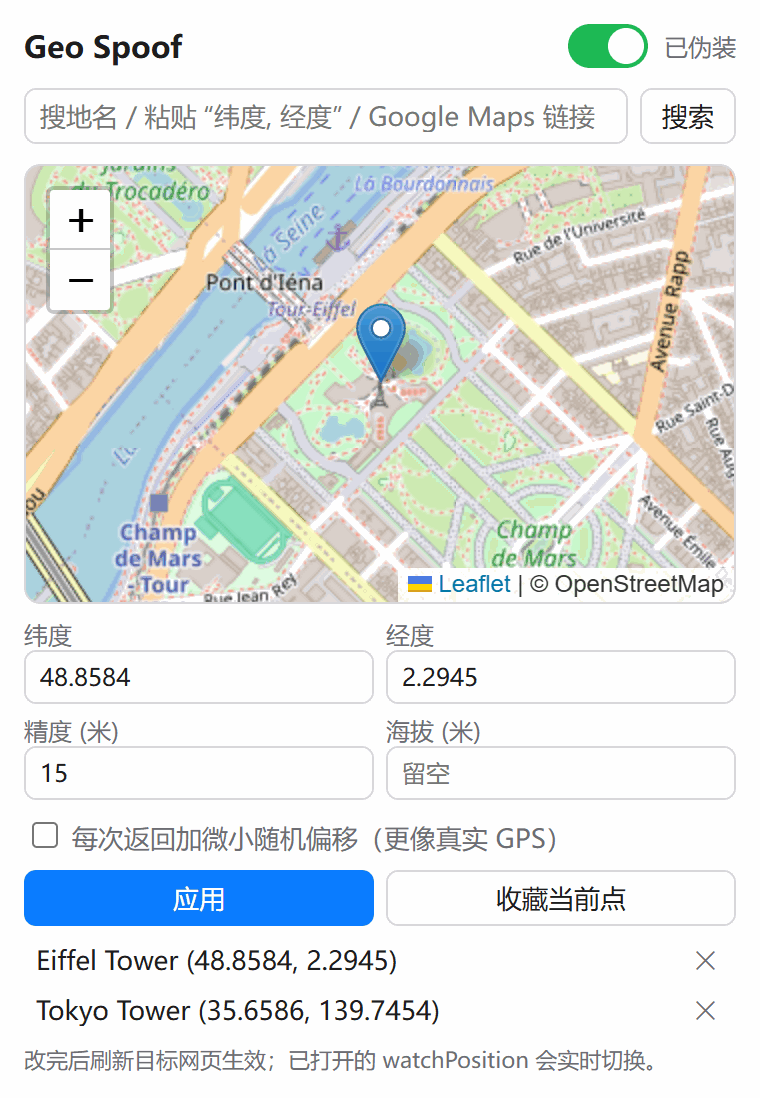
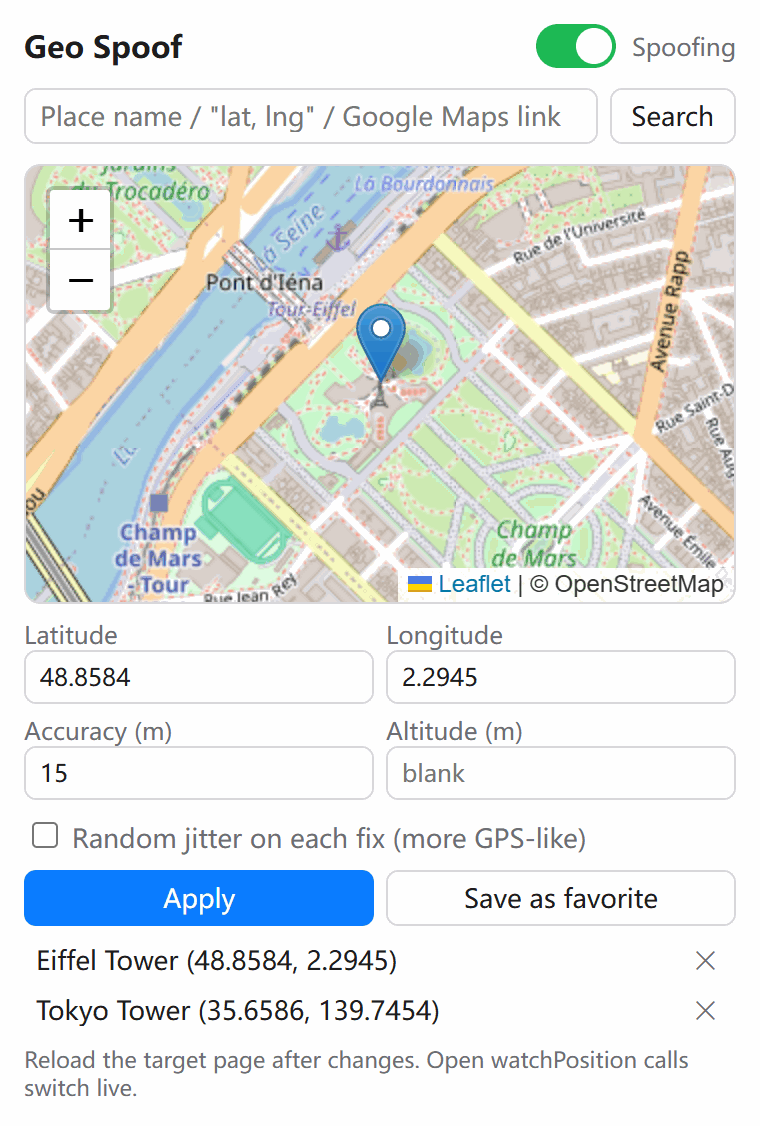
Bilingual UI (en default, zh_CN) via chrome.i18n; English probe page; zh screenshot

diff --git a/test/probe/index.html b/test/probe/index.html
@@ -1,11 +1,11 @@
 <!doctype html>
-<html lang="zh">
+<html lang="en">
 <head>
 <meta charset="utf-8">
 <title>Geolocation Probe</title>
 <style>
   :root { color-scheme: light dark; }
-  body { font: 14px/1.6 system-ui, "Microsoft YaHei", sans-serif; max-width: 820px; margin: 32px auto; padding: 0 16px; }
+  body { font: 14px/1.6 system-ui, sans-serif; max-width: 820px; margin: 32px auto; padding: 0 16px; }
   h1 { font-size: 19px; margin: 0 0 4px; }
   p.sub { color: #777; margin: 0 0 20px; }
   section { border: 1px solid #8884; border-radius: 10px; padding: 12px 16px; margin: 0 0 14px; }
@@ -22,22 +22,22 @@
 </head>
 <body>
 <h1>Geolocation Probe</h1>
-<p class="sub">只调用 navigator.geolocation，没有任何第三方定位逻辑。</p>
+<p class="sub">Calls navigator.geolocation only. No third-party location logic.</p>
 
 <section>
   <h2>getCurrentPosition</h2>
-  <table id="pos"><tr><td>状态</td><td>请求中…</td></tr></table>
-  <p><button id="again">再取一次</button></p>
+  <table id="pos"><tr><td>Status</td><td>Requesting…</td></tr></table>
+  <p><button id="again">Get again</button></p>
 </section>
 
 <section>
-  <h2>watchPosition（实时，改坐标后这里应立刻变）</h2>
-  <div id="log">等待第一次回调…</div>
+  <h2>watchPosition (live; should change as soon as you move the point)</h2>
+  <div id="log">Waiting for first callback…</div>
 </section>
 
 <section>
-  <h2>一致性检查</h2>
-  <table id="checks"><tr><td>检测中…</td><td></td></tr></table>
+  <h2>Consistency checks</h2>
+  <table id="checks"><tr><td>Checking…</td><td></td></tr></table>
 </section>
 
 <script>
@@ -49,18 +49,18 @@ function showPos(p) {
   last = p;
   const c = p.coords;
   $('pos').innerHTML =
-    row('纬度', c.latitude) + row('经度', c.longitude) +
-    row('精度', c.accuracy + ' 米') +
-    row('海拔', c.altitude === null ? 'null' : c.altitude) +
-    row('时间戳', new Date(p.timestamp).toLocaleString()) +
-    row('对象类型', (p instanceof GeolocationPosition ? 'GeolocationPosition' : '不是原生类型 ← 可被检测') ,
+    row('Latitude', c.latitude) + row('Longitude', c.longitude) +
+    row('Accuracy', c.accuracy + ' m') +
+    row('Altitude', c.altitude === null ? 'null' : c.altitude) +
+    row('Timestamp', new Date(p.timestamp).toLocaleString()) +
+    row('Object type', (p instanceof GeolocationPosition ? 'GeolocationPosition' : 'Not native type ← detectable') ,
         p instanceof GeolocationPosition ? 'ok' : 'bad') +
-    row('地图', `<a href="https://www.openstreetmap.org/?mlat=${c.latitude}&mlon=${c.longitude}#map=16/${c.latitude}/${c.longitude}" target="_blank">在 OSM 上查看</a>`, '');
+    row('Map', `<a href="https://www.openstreetmap.org/?mlat=${c.latitude}&mlon=${c.longitude}#map=16/${c.latitude}/${c.longitude}" target="_blank">View on OSM</a>`, '');
   checks();
 }
 
 function showErr(e) {
-  $('pos').innerHTML = row('错误', `${e.code} — ${e.message}`, 'bad');
+  $('pos').innerHTML = row('Error', `${e.code} — ${e.message}`, 'bad');
 }
 
 const get = () => navigator.geolocation.getCurrentPosition(showPos, showErr, { enableHighAccuracy: true, timeout: 10000, maximumAge: 0 });
@@ -70,28 +70,28 @@ $('again').onclick = get;
 navigator.geolocation.watchPosition((p) => {
   const line = document.createElement('div');
   line.textContent = `${new Date().toLocaleTimeString()}  ${p.coords.latitude}, ${p.coords.longitude}  ±${p.coords.accuracy}m`;
-  if ($('log').textContent.startsWith('等待')) $('log').textContent = '';
+  if ($('log').textContent.startsWith('Waiting')) $('log').textContent = '';
   $('log').prepend(line);
-}, (e) => { $('log').textContent = `watch 错误: ${e.code} ${e.message}`; });
+}, (e) => { $('log').textContent = `watch error: ${e.code} ${e.message}`; });
 
 // Cross-check what else the page can see about where you are
 async function checks() {
   const tz = Intl.DateTimeFormat().resolvedOptions().timeZone;
-  let out = row('函数签名', navigator.geolocation.getCurrentPosition.toString(),
+  let out = row('Function source', navigator.geolocation.getCurrentPosition.toString(),
     navigator.geolocation.getCurrentPosition.toString().includes('[native code]') ? 'mono' : 'bad');
-  out += row('系统时区', tz);
+  out += row('Time zone', tz);
   try {
     const st = await navigator.permissions.query({ name: 'geolocation' });
-    out += row('定位权限', st.state);
+    out += row('Permission', st.state);
   } catch {}
   $('checks').innerHTML = out;
   try {
     const ip = await (await fetch('https://ipinfo.io/json')).json();
     const [ilat, ilng] = ip.loc.split(',').map(Number);
-    let extra = row('IP 地址', ip.ip) + row('IP 定位', `${ip.city}, ${ip.region} (${ip.loc})`);
+    let extra = row('IP address', ip.ip) + row('IP location', `${ip.city}, ${ip.region} (${ip.loc})`);
     if (last) {
       const d = Math.hypot(last.coords.latitude - ilat, (last.coords.longitude - ilng) * Math.cos(ilat * Math.PI / 180)) * 111.32;
-      extra += row('与 GPS 坐标相距', `${d.toFixed(0)} km`, d > 100 ? 'bad' : 'mono');
+      extra += row('Distance from GPS fix', `${d.toFixed(0)} km`, d > 100 ? 'bad' : 'mono');
     }
     $('checks').innerHTML += extra;
   } catch {}

diff --git a/extension/popup.js b/extension/popup.js
@@ -1,4 +1,10 @@
 const $ = (id) => document.getElementById(id);
+const t = (k) => chrome.i18n.getMessage(k) || k;
+
+// Localize static text
+document.documentElement.lang = chrome.i18n.getUILanguage();
+document.querySelectorAll('[data-i18n]').forEach((el) => (el.textContent = t(el.dataset.i18n)));
+document.querySelectorAll('[data-i18n-placeholder]').forEach((el) => (el.placeholder = t(el.dataset.i18nPlaceholder)));
 const DEFAULT = { enabled: false, lat: 43.0747, lng: -89.3842, accuracy: 20, altitude: '', jitter: true };
 
 let cfg, favs, marker, map = null;
@@ -26,7 +32,7 @@ try {
   }).addTo(map);
   map.on('click', (e) => { setPoint(e.latlng.lat, e.latlng.lng); save(); });
 } catch (e) {
-  showErr('地图加载失败，坐标仍可手动输入: ' + e.message);
+  showErr(t('mapFailed') + ' ' + e.message);
   $('map').style.display = 'none';
 }
 
@@ -54,11 +60,11 @@ function readForm() {
 async function save() {
   cfg = readForm();
   if (!isFinite(cfg.lat) || !isFinite(cfg.lng) || Math.abs(cfg.lat) > 90 || Math.abs(cfg.lng) > 180) {
-    $('state').textContent = '坐标无效'; return;
+    $('state').textContent = t('stateInvalid'); return;
   }
   await chrome.storage.local.set({ cfg });
-  const base = cfg.enabled ? '已伪装' : '关闭';
-  $('state').textContent = '已保存';
+  const base = t(cfg.enabled ? 'stateOn' : 'stateOff');
+  $('state').textContent = t('stateSaved');
   clearTimeout(save.t);
   save.t = setTimeout(() => ($('state').textContent = base), 900);
 }
@@ -77,10 +83,10 @@ async function search(e) {
   if (!q) return;
   const c = parseCoords(q);
   if (c) return setPoint(c[0], c[1], 16);
-  const url = 'https://nominatim.openstreetmap.org/search?format=json&limit=6&accept-language=zh-CN,en&q=' + encodeURIComponent(q);
+  const url = 'https://nominatim.openstreetmap.org/search?format=json&limit=6&accept-language=' + chrome.i18n.getUILanguage() + ',en&q=' + encodeURIComponent(q);
   try {
     const list = await (await fetch(url)).json();
-    if (!list.length) $('results').innerHTML = '<li><span>没找到</span></li>';
+    if (!list.length) $('results').innerHTML = `<li><span>${t('noResults')}</span></li>`;
     for (const r of list) {
       const li = document.createElement('li');
       li.innerHTML = '<span></span>';
@@ -88,14 +94,14 @@ async function search(e) {
       li.onclick = () => { setPoint(r.lat, r.lon, 16); $('results').innerHTML = ''; };
       $('results').append(li);
     }
-  } catch { $('results').innerHTML = '<li><span>搜索失败（网络）</span></li>'; }
+  } catch { $('results').innerHTML = `<li><span>${t('searchFailed')}</span></li>`; }
 }
 
 function renderFavs() {
   $('favs').innerHTML = '';
   favs.forEach((f, i) => {
     const li = document.createElement('li');
-    li.innerHTML = '<span></span><b title="删除">✕</b>';
+    li.innerHTML = `<span></span><b title="${t('remove')}">✕</b>`;
     li.firstChild.textContent = `${f.name}  (${f.lat}, ${f.lng})`;
     li.firstChild.onclick = () => setPoint(f.lat, f.lng, 16);
     li.lastChild.onclick = async () => { favs.splice(i, 1); await chrome.storage.local.set({ favs }); renderFavs(); };
@@ -106,21 +112,21 @@ function renderFavs() {
 async function addFav() {
   // Name from search box, fallback to label
   const q = $('q').value.trim();
-  const name = q && !parseCoords(q) ? q.split(',')[0].slice(0, 30) : `收藏 ${favs.length + 1}`;
+  const name = q && !parseCoords(q) ? q.split(',')[0].slice(0, 30) : `${t('favorite')} ${favs.length + 1}`;
   favs.unshift({ name, lat: +$('lat').value, lng: +$('lng').value });
   await chrome.storage.local.set({ favs });
   renderFavs();
 }
 
 (async () => {
-  const s = await chrome.storage.local.get(['cfg', 'favs']).catch((e) => { showErr('读取设置失败: ' + e.message); return {}; });
+  const s = await chrome.storage.local.get(['cfg', 'favs']).catch((e) => { showErr(t('loadFailed') + ' ' + e.message); return {}; });
   cfg = { ...DEFAULT, ...s.cfg };
   favs = s.favs || [];
   $('enabled').checked = cfg.enabled;
   $('accuracy').value = cfg.accuracy;
   $('altitude').value = cfg.altitude;
   $('jitter').checked = cfg.jitter;
-  $('state').textContent = cfg.enabled ? '已伪装' : '关闭';
+  $('state').textContent = t(cfg.enabled ? 'stateOn' : 'stateOff');
   setPoint(cfg.lat, cfg.lng, 15);
   renderFavs();
 })();

diff --git a/extension/popup.html b/extension/popup.html
@@ -1,5 +1,5 @@
 <!doctype html>
-<html lang="zh">
+<html lang="en">
 <head>
 <meta charset="utf-8">
 <link rel="stylesheet" href="lib/leaflet.css">
@@ -9,33 +9,33 @@
   <header>
     <strong>Geo Spoof</strong>
     <label class="switch"><input type="checkbox" id="enabled"><span></span></label>
-    <span id="state">关闭</span>
+    <span id="state" data-i18n="stateOff">Off</span>
   </header>
 
   <p id="err" hidden></p>
 
   <form id="searchForm">
-    <input id="q" placeholder="搜地名 / 粘贴 “纬度, 经度” / Google Maps 链接">
-    <button>搜索</button>
+    <input id="q" data-i18n-placeholder="searchPlaceholder">
+    <button data-i18n="search">Search</button>
   </form>
   <ul id="results"></ul>
 
   <div id="map"></div>
 
   <div class="grid">
-    <label>纬度<input id="lat" type="number" step="any"></label>
-    <label>经度<input id="lng" type="number" step="any"></label>
-    <label>精度 (米)<input id="accuracy" type="number" min="1" value="20"></label>
-    <label>海拔 (米)<input id="altitude" type="number" step="any" placeholder="留空"></label>
+    <label><span data-i18n="lat">Latitude</span><input id="lat" type="number" step="any"></label>
+    <label><span data-i18n="lng">Longitude</span><input id="lng" type="number" step="any"></label>
+    <label><span data-i18n="accuracy">Accuracy (m)</span><input id="accuracy" type="number" min="1" value="20"></label>
+    <label><span data-i18n="altitude">Altitude (m)</span><input id="altitude" type="number" step="any" data-i18n-placeholder="altitudePlaceholder"></label>
   </div>
-  <label class="check"><input type="checkbox" id="jitter"> 每次返回加微小随机偏移（更像真实 GPS）</label>
+  <label class="check"><input type="checkbox" id="jitter"> <span data-i18n="jitter">Random jitter on each fix</span></label>
 
   <div class="row">
-    <button id="save" class="primary">应用</button>
-    <button id="fav">收藏当前点</button>
+    <button id="save" class="primary" data-i18n="apply">Apply</button>
+    <button id="fav" data-i18n="saveFav">Save as favorite</button>
   </div>
   <ul id="favs"></ul>
-  <p class="hint">改完后刷新目标网页生效；已打开的 watchPosition 会实时切换。</p>
+  <p class="hint" data-i18n="hint"></p>
 
   <script src="lib/leaflet.js"></script>
   <script src="popup.js"></script>

diff --git a/extension/sw.js b/extension/sw.js
@@ -5,7 +5,7 @@ async function paint() {
   await chrome.action.setBadgeText({ text: on ? 'ON' : '' });
   await chrome.action.setBadgeBackgroundColor({ color: '#1db954' });
   await chrome.action.setTitle({
-    title: on ? `Geo Spoof: ${cfg.lat}, ${cfg.lng}` : 'Geo Spoof: 关闭',
+    title: on ? `Geo Spoof: ${cfg.lat}, ${cfg.lng}` : `Geo Spoof: ${chrome.i18n.getMessage('stateOff')}`,
   });
 }
 

diff --git a/docs/screenshots.py b/docs/screenshots.py
@@ -32,8 +32,8 @@ srv = http.server.ThreadingHTTPServer(("127.0.0.1", 0), functools.partial(http.s
 threading.Thread(target=srv.serve_forever, daemon=True).start()
 
 with sync_playwright() as p:
-    ctx = p.chromium.launch_persistent_context(str(tmp / "profile"), headless=True, channel="chromium",
-        device_scale_factor=2, args=[f"--disable-extensions-except={ext}", f"--load-extension={ext}"])
+    ctx = p.chromium.launch_persistent_context(str(tmp / "profile"), headless=True, channel="chromium", locale="en-US",
+        device_scale_factor=2, args=["--lang=en-US", f"--disable-extensions-except={ext}", f"--load-extension={ext}"])
     sw = ctx.service_workers[0] if ctx.service_workers else ctx.wait_for_event("serviceworker")
     ext_id = sw.url.split("/")[2]
     sw.evaluate(f"chrome.storage.local.set({{cfg:{{enabled:true,lat:{LAT},lng:{LNG},accuracy:{ACC},altitude:'',jitter:false}},"
@@ -53,4 +53,21 @@ with sync_playwright() as p:
     page.wait_for_function("window.done", timeout=20000)
     page.screenshot(path=str(OUT / "demo-page.png"))
     ctx.close()
+
+    # Chinese UI popup
+    ctx = p.chromium.launch_persistent_context(str(tmp / "profile-zh"), headless=True, channel="chromium", locale="zh-CN",
+        device_scale_factor=2, args=["--lang=zh-CN", f"--disable-extensions-except={ext}", f"--load-extension={ext}"])
+    sw = ctx.service_workers[0] if ctx.service_workers else ctx.wait_for_event("serviceworker")
+    sw.evaluate(f"chrome.storage.local.set({{cfg:{{enabled:true,lat:{LAT},lng:{LNG},accuracy:{ACC},altitude:'',jitter:false}}}})")
+    pop = ctx.new_page()
+    pop.set_viewport_size({"width": 380, "height": 200})
+    pop.goto(f"chrome-extension://{sw.url.split('/')[2]}/popup.html")
+    pop.wait_for_timeout(3000)
+    pop.screenshot(path=str(OUT / "popup-zh.png"), full_page=True)
+    ctx.close()
+
+# Shrink PNGs
+from PIL import Image
+for f in OUT.glob("*.png"):
+    Image.open(f).convert("RGB").quantize(256, method=2).save(f, optimize=True)
 print("saved to", OUT)

diff --git a/README.md b/README.md
@@ -11,7 +11,7 @@ Pick any spot on a map, and websites that ask your browser for your location get
   <img src="docs/demo-page.png" width="520" alt="A web page calling navigator.geolocation gets the Eiffel Tower coordinates">
 </p>
 
-*Left: the popup (its UI is in Chinese). Right: an ordinary page calling `navigator.geolocation.getCurrentPosition()` gets the spoofed point.*
+*Left: the popup. Right: an ordinary page calling `navigator.geolocation.getCurrentPosition()` gets the spoofed point.*
 
 ## Features
 
@@ -20,6 +20,7 @@ Pick any spot on a map, and websites that ask your browser for your location get
 - **Favorites** for points you use often.
 - **Live switching.** Active `watchPosition` callbacks move to the new point immediately.
 - **Toolbar badge** reads `ON` while spoofing.
+- **English and Chinese UI.** It follows the browser language (`_locales/en`, `_locales/zh_CN`); English is the default. <details><summary>Chinese UI</summary><img src="docs/popup-zh.png" width="280" alt="Popup in Chinese"></details>
 - **Pass-through when off.** When spoofing is off, calls go straight to the real API.
 
 ## Install
